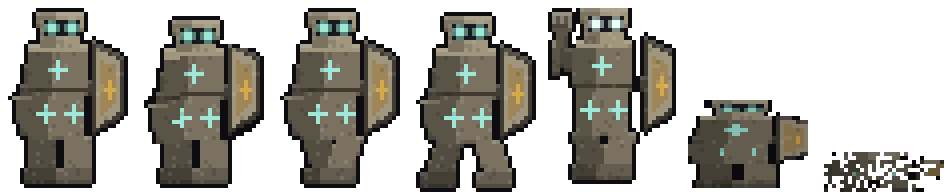
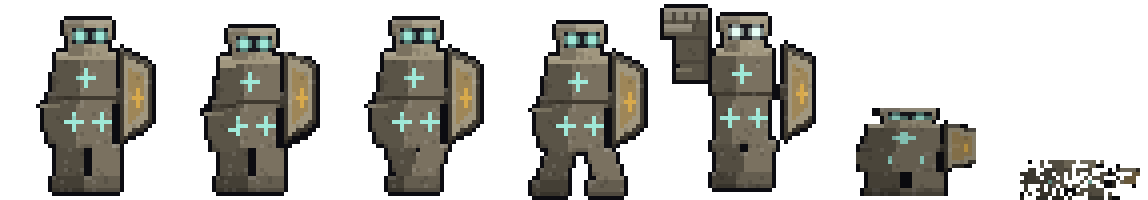
ruin_guard: 공격 칸 치켜든 팔을 굵은 돌팔과 큰 주먹으로
아래팔 속 8칸(서 있는 칸의 늘어진 팔과 같은 굵기, 그 돌 결을 룬 없이 옮김) ·
주먹 속 11x7(손가락 마디 넷 · 엄지). 팔은 어깨에서 끝나고 오른쪽 테두리를
몸통과 함께 쓴다. 칸을 왼쪽 7 · 위 2 넓힘(41x50 · side 3.5 브라우저 실측 일치),
다른 칸은 픽셀까지 그대로.

Claude-Session: https://claude.ai/code/session_015bTXkb4q3SzK7wZ8JdbtYP

diff --git a/game/assets/sprites-manifest.js b/game/assets/sprites-manifest.js
@@ -874,11 +874,11 @@ window.SPRITE_MANIFEST = {
       },
       "ruin_guard": {
         "file": "char/ruin_guard.png",
-        "frameW": 34,
-        "frameH": 48,
+        "frameW": 41,
+        "frameH": 50,
         "count": 7,
         "foot": 0.25,
-        "side": 0
+        "side": 3.5
       },
       "lantern": {
         "file": "char/lantern.png",
